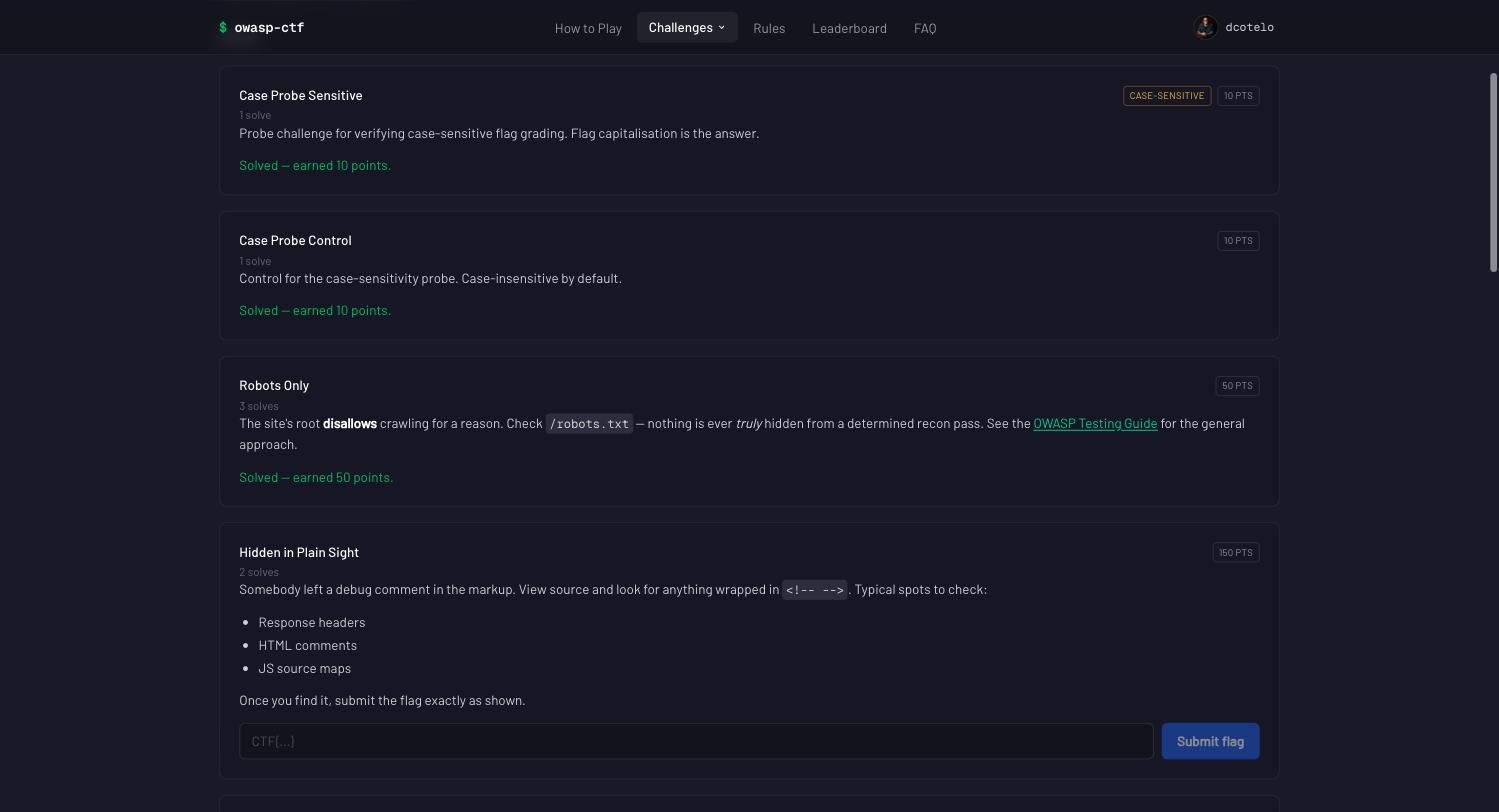
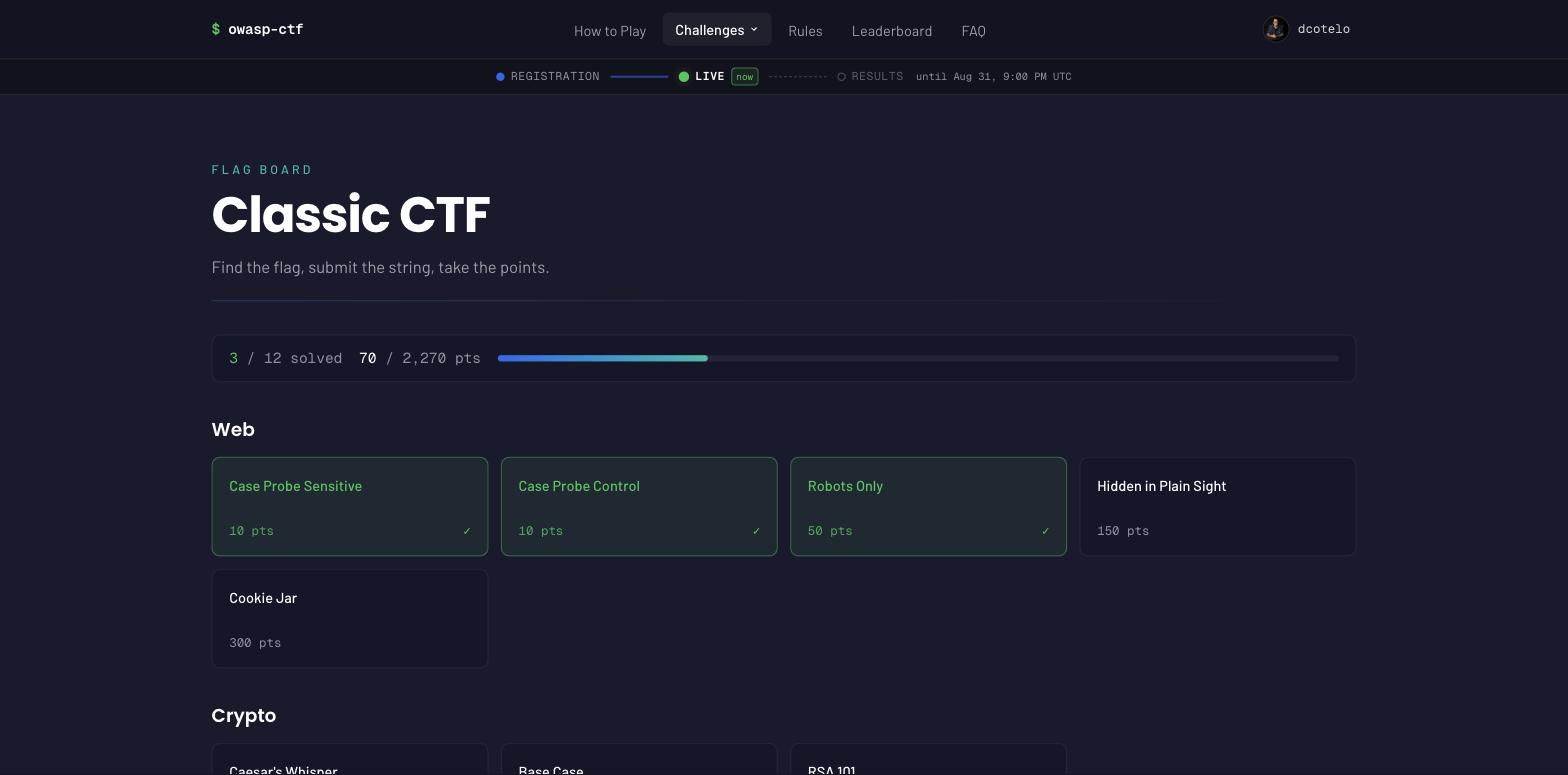
docs: the classic board screenshot and caption match the tile grid

diff --git a/docs/index.md b/docs/index.md
@@ -84,7 +84,7 @@ scoring code to write.
 
 | Classic flag board | Quiz |
 |---|---|
-| ![The classic board: each flag card shows its point value and solve count, a case-sensitive badge where casing matters, and instant feedback on submit](assets/flags.jpg) | ![The quiz: single- and multi-select questions, each showing its point value and remaining attempts, graded the moment you submit](assets/quiz.jpg) |
+| ![The classic board: challenges grouped by category as compact tiles — title, points, and a green check once solved — each opening the challenge's own page with the description and flag form](assets/flags.jpg) | ![The quiz: single- and multi-select questions, each showing its point value and remaining attempts, graded the moment you submit](assets/quiz.jpg) |
 
 <sup>Captured from the contestant app with seeded demo players. The board ranks
 <strong>teams</strong> by default and switches to individual standings; anything
